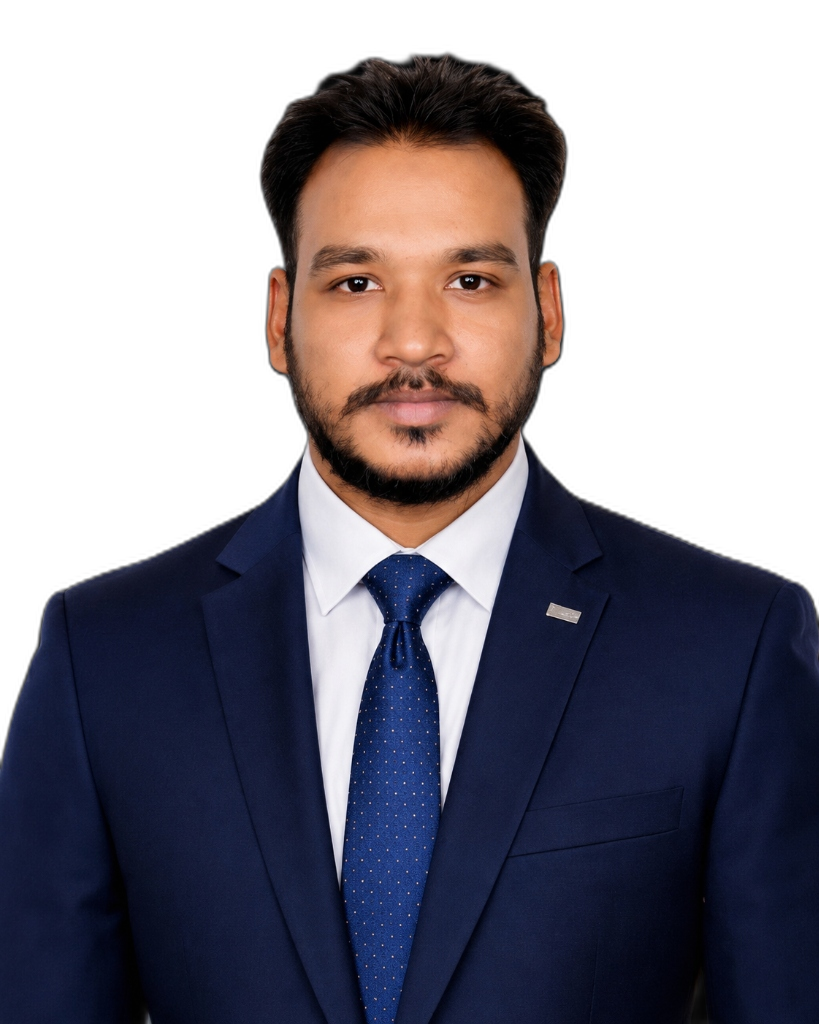
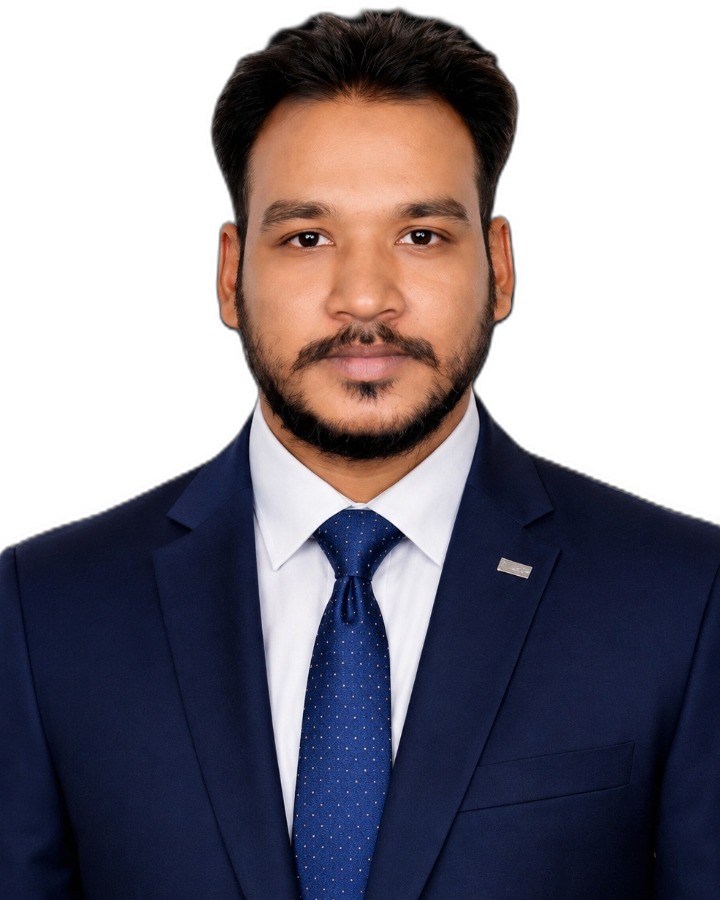
Zoom portrait on About page to touch frame edges and add red hover color to top tabs

diff --git a/src/app/projects/page.tsx b/src/app/projects/page.tsx
@@ -259,7 +259,7 @@ export default function Projects() {
             href="https://www.youtube.com/@shadorittu" 
             target="_blank" 
             rel="noopener noreferrer"
-            className="flex items-center gap-3 border-2 border-foreground text-foreground px-7 py-3.5 text-xs font-mono font-bold tracking-widest uppercase hover:bg-foreground hover:text-background transition-colors"
+            className="flex items-center gap-3 border-2 border-foreground text-foreground px-7 py-3.5 text-xs font-mono font-bold tracking-widest uppercase hover:border-accent hover:text-accent transition-colors"
           >
             <Play size={14} fill="currentColor" />
             AI Animation Channel
@@ -269,12 +269,12 @@ export default function Projects() {
             className={`flex items-center gap-3 px-7 py-3.5 text-xs font-mono font-bold tracking-widest uppercase transition-colors border-2 ${
               activeTab === 'web-apps'
                 ? 'bg-foreground text-background border-foreground shadow-md'
-                : 'border-foreground text-foreground hover:bg-foreground hover:text-background'
+                : 'border-foreground text-foreground hover:border-accent hover:text-accent'
             }`}
           >
             <Code size={14} />
             <span>Web & Apps Archive</span>
-            <span className={`text-[10px] px-2 py-0.5 rounded-full font-bold ${
+            <span className={`text-[10px] px-2 py-0.5 rounded-full font-bold transition-colors ${
               activeTab === 'web-apps' ? 'bg-accent text-white' : 'bg-foreground/10 text-foreground'
             }`}>
               {WEB_PROJECTS.length + APPS.length}
@@ -282,7 +282,7 @@ export default function Projects() {
           </button>
         </div>
 
-        {/* Single Clean Interactive Filter Bar */}
+        {/* Single Clean Interactive Filter Bar with Red Hover */}
         <div className="w-full overflow-x-auto pb-4 pt-2 no-scrollbar">
           <div className="flex justify-start md:justify-center items-center gap-2 md:gap-3 min-w-max px-2">
             {tabs.map((tab) => {
@@ -291,15 +291,15 @@ export default function Projects() {
                 <button
                   key={tab.id}
                   onClick={() => setActiveTab(tab.id)}
-                  className={`flex items-center gap-2 px-4 py-2.5 rounded-sm font-mono text-xs uppercase tracking-wider transition-all duration-300 border ${
+                  className={`group flex items-center gap-2 px-4 py-2.5 rounded-sm font-mono text-xs uppercase tracking-wider transition-all duration-300 border ${
                     isActive 
                       ? 'bg-foreground text-background border-foreground font-bold shadow-md' 
-                      : 'bg-background/80 text-secondary border-foreground/20 hover:border-foreground hover:text-foreground'
+                      : 'bg-background/80 text-secondary border-foreground/20 hover:border-accent hover:text-accent'
                   }`}
                 >
                   <span>{tab.label}</span>
-                  <span className={`text-[10px] px-1.5 py-0.5 rounded-full ${
-                    isActive ? 'bg-accent text-white font-bold' : 'bg-foreground/10 text-secondary'
+                  <span className={`text-[10px] px-1.5 py-0.5 rounded-full transition-colors ${
+                    isActive ? 'bg-accent text-white font-bold' : 'bg-foreground/10 text-secondary group-hover:bg-accent group-hover:text-white'
                   }`}>
                     {tab.count}
                   </span>

diff --git a/src/components/Navbar.tsx b/src/components/Navbar.tsx
@@ -17,10 +17,10 @@ export default function Navbar() {
         
         {/* Desktop Menu */}
         <div className="hidden md:flex gap-12 text-secondary">
-          <Link href="/projects" className={`transition-colors ${pathname === '/projects' ? 'text-foreground font-bold' : 'hover:text-foreground'}`}>Work</Link>
-          <Link href="/capabilities" className={`transition-colors ${pathname === '/capabilities' ? 'text-foreground font-bold' : 'hover:text-foreground'}`}>Capabilities</Link>
-          <Link href="/about" className={`transition-colors ${pathname === '/about' ? 'text-foreground font-bold' : 'hover:text-foreground'}`}>About</Link>
-          <Link href="/contact" className={`transition-colors ${pathname === '/contact' ? 'text-foreground font-bold' : 'hover:text-foreground'}`}>Contact</Link>
+          <Link href="/projects" className={`transition-colors ${pathname === '/projects' ? 'text-accent font-bold' : 'hover:text-accent'}`}>Work</Link>
+          <Link href="/capabilities" className={`transition-colors ${pathname === '/capabilities' ? 'text-accent font-bold' : 'hover:text-accent'}`}>Capabilities</Link>
+          <Link href="/about" className={`transition-colors ${pathname === '/about' ? 'text-accent font-bold' : 'hover:text-accent'}`}>About</Link>
+          <Link href="/contact" className={`transition-colors ${pathname === '/contact' ? 'text-accent font-bold' : 'hover:text-accent'}`}>Contact</Link>
         </div>
 
         <a href="/contact" className="hidden md:block bg-accent text-background px-6 py-2 hover:bg-foreground transition-colors">
